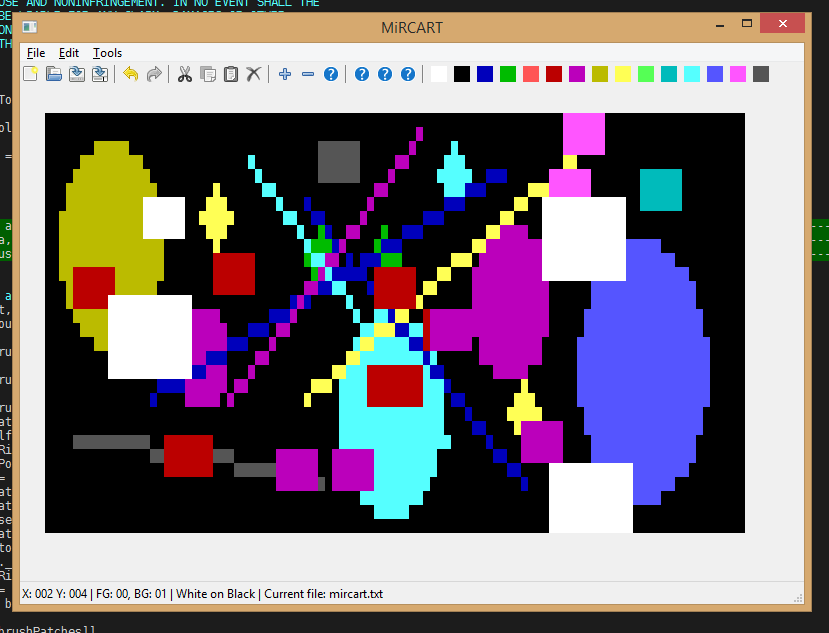
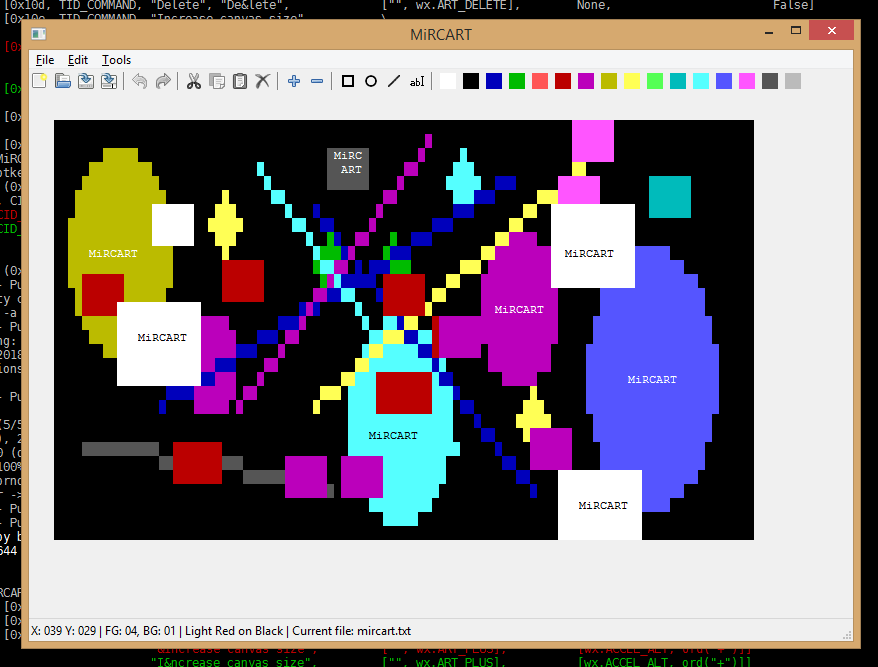
MiRCART.png: updates screenshot. MiRCARTCanvas.py:onPanelKeyboardInput(): only handle {no,shift}-modifier keyboard events. MiRCARTFrame.py: fix {de,in}crease canvas size accelerators (hotkeys.)

diff --git a/MiRCARTFrame.py b/MiRCARTFrame.py
@@ -57,9 +57,9 @@ class MiRCARTFrame(MiRCARTGeneralFrame):
     CID_PASTE           = [0x10c, TID_COMMAND, "Paste", "&Paste",               ["", wx.ART_PASTE],         None,                       False]
     CID_DELETE          = [0x10d, TID_COMMAND, "Delete", "De&lete",             ["", wx.ART_DELETE],        None,                       False]
     CID_INCR_CANVAS     = [0x10e, TID_COMMAND, "Increase canvas size",          \
-                                               "&Increase canvas size",         ["", wx.ART_PLUS],          [wx.ACCEL_SHIFT, ord("+")]]
-    CID_DECR_CANVAS     = [0x10f, TID_COMMAND, "Decrease brush size",           \
-                                               "&Decrease brush size",          ["", wx.ART_MINUS],         [wx.ACCEL_SHIFT, ord("-")]]
+                                               "I&ncrease canvas size",         ["", wx.ART_PLUS],          [wx.ACCEL_ALT, ord("+")]]
+    CID_DECR_CANVAS     = [0x10f, TID_COMMAND, "Decrease canvas size",          \
+                                               "D&ecrease canvas size",         ["", wx.ART_MINUS],         [wx.ACCEL_ALT, ord("-")]]
     CID_INCR_BRUSH      = [0x110, TID_COMMAND, "Increase brush size",           \
                                                "&Increase brush size",          ["", wx.ART_PLUS],          [wx.ACCEL_CTRL, ord("+")]]
     CID_DECR_BRUSH      = [0x111, TID_COMMAND, "Decrease brush size",           \
@@ -120,7 +120,7 @@ class MiRCARTFrame(MiRCARTGeneralFrame):
     # {{{ Accelerators (hotkeys)
     AID_EDIT            = (0x500, TID_ACCELS, (                                 \
         CID_NEW, CID_OPEN, CID_SAVE, CID_UNDO, CID_REDO,                        \
-        CID_INCR_CANVAS, CID_INCR_BRUSH, CID_INCR_BRUSH, CID_DECR_BRUSH))
+        CID_INCR_CANVAS, CID_DECR_CANVAS, CID_INCR_BRUSH, CID_DECR_BRUSH))
     # }}}
     # {{{ Lists
     LID_ACCELS          = (0x600, TID_LIST, (AID_EDIT))

diff --git a/MiRCARTCanvas.py b/MiRCARTCanvas.py
@@ -71,7 +71,9 @@ class MiRCARTCanvas(wx.Panel):
     def onPanelKeyboardInput(self, event):
         eventDc, tmpDc = self.canvasBackend.getDeviceContexts(self)
         tool = self.canvasCurTool; mapPoint = self.brushPos;
-        if event.GetModifiers() != wx.MOD_NONE:
+        keyModifiers = event.GetModifiers()
+        if  keyModifiers != wx.MOD_NONE                             \
+        and keyModifiers != wx.MOD_SHIFT:
             event.Skip()
         else:
             patches = tool.onKeyboardEvent(                         \
